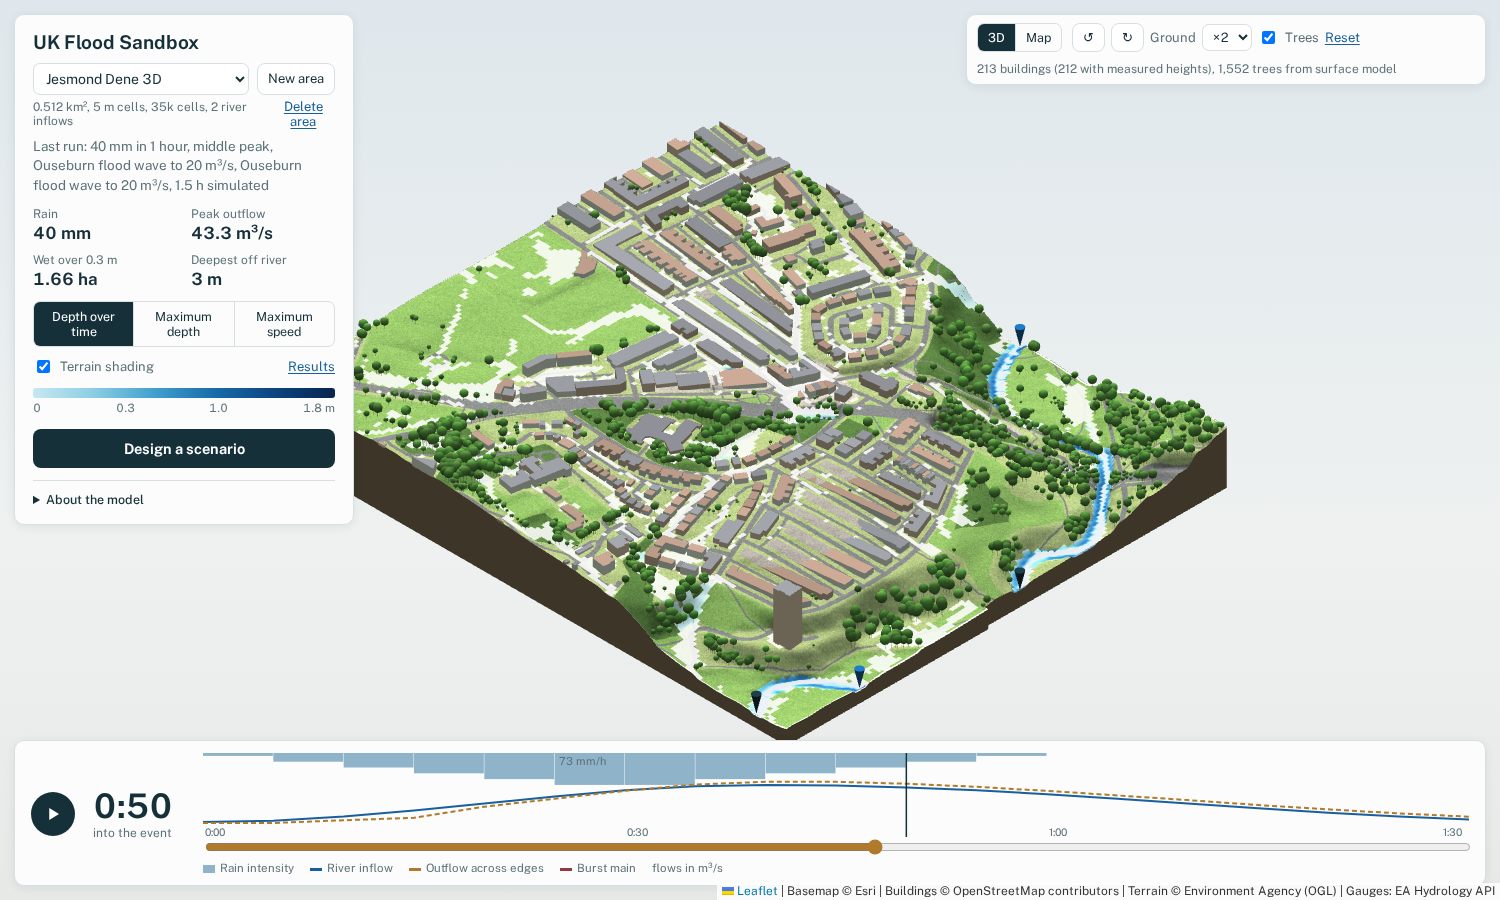
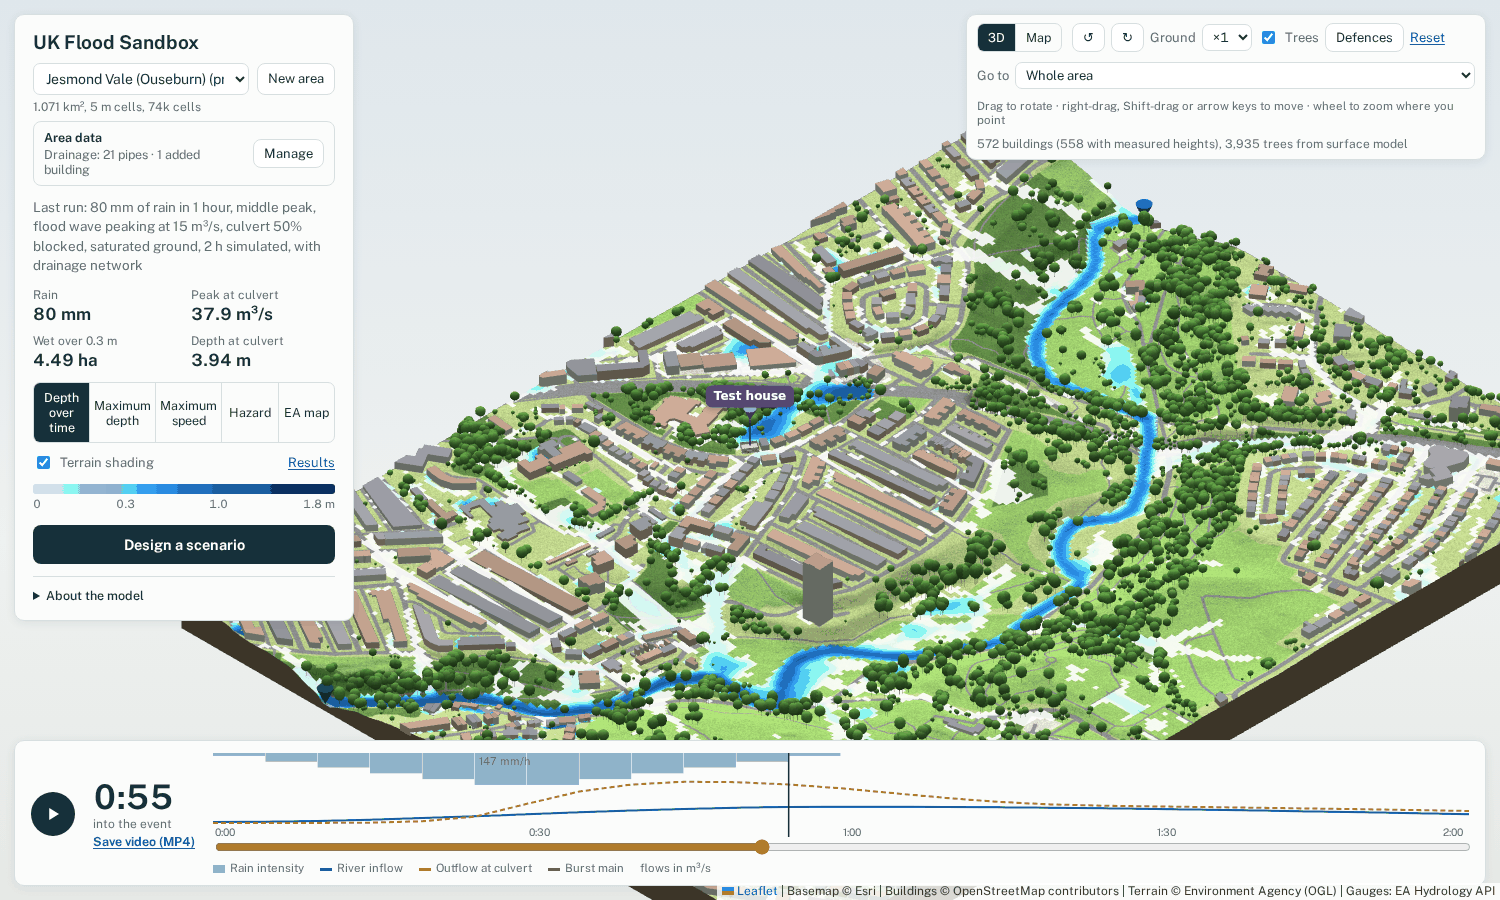
README: new features, using the app, updated screenshots; install new dependencies on update

diff --git a/README.md b/README.md
@@ -2,37 +2,58 @@
 
 Draw an area almost anywhere in England, Wales, Scotland or Northern Ireland, design a flood scenario (rain,
 rivers, tides and storm surges, a burst water main, a blocked culvert) and run it with a two-dimensional surface
-water model on your own computer. Watch the water in 3D, add flood defences and sustainable drainage, and compare
-the results: depths, hazard to people, buildings, roads and key sites affected, and indicative damage.
+water model on your own computer. Watch the water in 3D, add flood defences and sustainable drainage, bring in
+your own drainage network or buildings (IFC models, laser or drone point clouds, phone scans), and compare the
+results: depths, hazard to people, buildings, roads and key sites affected, water getting into buildings, and
+indicative damage.
 
-![3D view of Jesmond Dene, Newcastle, during a flood](docs/images/3d-view.png)
+![3D view of Jesmond Vale, Newcastle, during a flood, with an added building marked](docs/images/3d-view.png)
 
-> **Important.** Results are indicative and come from a simplified model (no sewer network unless you import
-> one; many river beds are
-> assumed). Use them to explore scenarios, teach and compare options, **not** to judge the flood risk of a
-> particular property or to support planning decisions. For official flood risk information see the national
-> flood maps of the Environment Agency, Natural Resources Wales, SEPA and DfI Rivers.
+> **Important.** Results are indicative and come from a simplified model: no sewer network unless you import one,
+> many river beds are assumed, and how water gets into buildings rests on published but limited evidence. Use them
+> to explore scenarios, teach and compare options, **not** to judge the flood risk of a particular property or to
+> support planning decisions. For official flood risk information see the national flood maps of the Environment
+> Agency, Natural Resources Wales, SEPA and DfI Rivers.
 
 ## What it does
 
 - **Anywhere in the UK**: terrain from national LiDAR (Environment Agency, Welsh Government, Scottish Remote
-  Sensing Portal, DfI and OSNI), buildings, roads and land cover from OpenStreetMap, prepared automatically.
-- **Floods from rain, rivers and the sea**: designed or recorded storms, river flood waves, burst mains, and
+  Sensing Portal, DfI and OSNI), buildings, roads and land cover from OpenStreetMap, rivers and flood defences,
+  prepared automatically in a few minutes.
+- **Floods from rain, rivers and the sea**: designed or recorded storms (including the pattern of Newcastle's
+  June 2012 storm), river flood waves of up to 3,000 m³/s entering across the channel's width, burst mains, and
   26 tidal estuaries driven by recorded or synthetic tides, with gauged river flows where available.
 - **Mitigation**: draw walls, embankments, demountable barriers, storage basins, raised kerbs, channel
   deepening, permeable surfaces, rain gardens, swales, tree planting, green roofs, storage tanks, pumps and
   timed flood gates, then compare against the same storm without them.
-- **Drainage networks and added buildings**: import a sewer network (SWMM from InfoWorks ICM, SewerGEMS or
-  PCSWMM, or GIS layers), or a building from an IFC model, a point cloud (LAS, LAZ, E57, XYZ, PTS, CSV) or a
-  mesh from a phone scan or photogrammetry (OBJ, PLY, GLB, glTF), each checked before it is used. An added building replaces the mapped one, shows in 3D, and
-  gets its own report: water at each door against its threshold and inside room by room.
+- **Drainage networks**: import sewers or drains from a SWMM file (InfoWorks ICM, SewerGEMS, PCSWMM) or GIS
+  layers (GeoPackage, shapefiles, ArcGIS file geodatabase), including weirs, flow controls, pumps and storage.
+  Every file is checked first: problems that must be fixed at source stop the import, and any repair the app
+  offers needs your consent. Manholes are coupled to the surface through gullies and covers (solid, grated or
+  sealed), and results show what the network took in, spilled and carried away.
+- **Your own buildings**: add a building from an IFC model, a point cloud (LAS, LAZ, E57, XYZ, PTS, CSV) or a
+  mesh from a phone scan or photogrammetry (OBJ, PLY, GLB, glTF), or click a building on the map to replace it.
+  Georeferenced files land in place; others are dragged and rotated on the map, and phone scans are levelled on
+  the LiDAR. Doors and windows come from the IFC model, or are marked by clicking the scan in 3D.
+- **Water getting into buildings**: room by room (or per storey for scans), through outside doors that leak at
+  rates measured in laboratory tests of UK doors, open doors, doors that give way, breaking windows and door
+  barriers, spreading through internal doors and draining out again. Each building gets a report: water at each
+  door against its threshold, depth in each room over time, indicative damage, and a warning when the water
+  outside rises high enough above the water inside for cavity walls to be at risk.
 - **Results**: depth over time, maximum depth and speed, hazard to people (Defra/EA method), buildings, roads and
   key sites affected, indicative damage (JRC depth-damage functions), a comparison with the EA national
   surface-water map, and a "difference" view between runs.
 - **Outputs**: a one-page PDF report, MP4 videos, GeoTIFF and GeoPackage layers, and the full time series as
   CF NetCDF, for QGIS, ArcGIS or Python.
 
-![Results window](docs/images/results-costs.png)
+<p>
+  <img src="docs/images/results.png" width="32%" alt="Results window: flood extent, depths, hazard and what the drainage network took in">
+  <img src="docs/images/building-report.png" width="32%" alt="Building report: water at each door against its threshold and inside each room">
+  <img src="docs/images/drainage-check.png" width="32%" alt="Drainage import check: repairs offered for the user to accept">
+</p>
+
+*Left to right: a run's results, the report for an added building (water at each door and inside each room), and
+the check of an imported drainage network (repairs need your consent).*
 
 ## Getting started
 
@@ -48,6 +69,18 @@ data downloads.
 The app runs a local web server that only accepts connections from your own computer. On first start it
 measures your computer's speed in the background (about a minute) to size its run-time estimates.
 
+**Updating.** After pulling a new version, run the start script again: it installs any new dependencies once.
+
+**Using the app.**
+
+- **Design a scenario** sets the storm, rivers, tide, burst main, culvert, ground condition, drainage network
+  and how added buildings' doors and windows behave; the run takes a few minutes for about 1 km².
+- **Area data** in the side panel (Manage) holds the drainage network and added buildings for the area: import,
+  replace, show or remove them, and mark doors and windows on scans.
+- **3D view**: drag to rotate; right-drag, Shift-drag or the arrow keys to move; the mouse wheel zooms where you
+  point. Added buildings carry a labelled pin, and **Go to** jumps to one.
+- **Results** lists everything a run measured, with a **Building** tab for each added building.
+
 **Optional: river flows in Wales.** Recorded runs on Welsh estuaries can use Natural Resources Wales river
 levels. Get a free key at https://api-portal.naturalresources.wales/, copy `settings.example.json` to
 `settings.json` and add the key. Keep it private: `settings.json` is excluded from the repository.
@@ -57,17 +90,26 @@ levels. Get a free key at https://api-portal.naturalresources.wales/, copy `sett
 The surface is a regular grid of 5 or 10 m cells split into triangles, solved by the OpenSWMM 6 two-dimensional
 engine. Estuaries are one-dimensional SWMM models from the tidal limit to a tide gauge, whose levels drive the
 area's river boundaries. Defences and drainage measures are built into each run's copy of the mesh, or added as
-linked one-dimensional elements (tanks, pumps, gates). Every run checks its water balance.
-Details, assumptions and test results: [docs/technical-notes.md](docs/technical-notes.md).
+linked one-dimensional elements (tanks, pumps, gates). Imported drainage networks and the insides of added
+buildings are one-dimensional too, linked to the surface cells they sit on. Every run checks its water balance.
+Details, assumptions, sources and test results: [docs/technical-notes.md](docs/technical-notes.md).
 
 ## Main limitations
 
 - No sewer or drainage network unless you import one (see [Drainage networks](docs/technical-notes.md#drainage-networks));
   roofs drain to the ground beside each building. Without a network, small, frequent storms flood more than they
-  would in reality.
+  would in reality. Imported networks start empty (no foul or dry-weather flow), and gully capacities, cover
+  openings and chamber sizes are assumptions unless the data gives them.
+- Water entering buildings rests on limited evidence: door leakage on laboratory tests of six UK doors up to
+  0.6 m, window behaviour and wall failure on an analysis of modern English homes (see the technical notes for
+  the sources). Airbricks and stairs are not modelled, and wall failure is flagged, not modelled.
+- Phone scans have no real heights: they are levelled on the LiDAR, so their levels are only as accurate as it is.
+  Unclassified scans may include trees or walls touching the building.
 - River beds of most estuaries are assumed; four (Thames, Humber, Severn, Exe) are calibrated against tide gauges.
   Several estuaries use a tide gauge some distance away.
 - Flood defence data is incomplete in places, and absent in Scotland and Northern Ireland.
+- Imports have been tested on synthetic files; real drainage, IFC and scan files may raise cases the checks don't
+  yet cover. Reports of these are very welcome.
 - The engine is an alpha release (OpenSWMM 6.0.0a4), pinned in `requirements.txt`.
 
 ## Documentation
